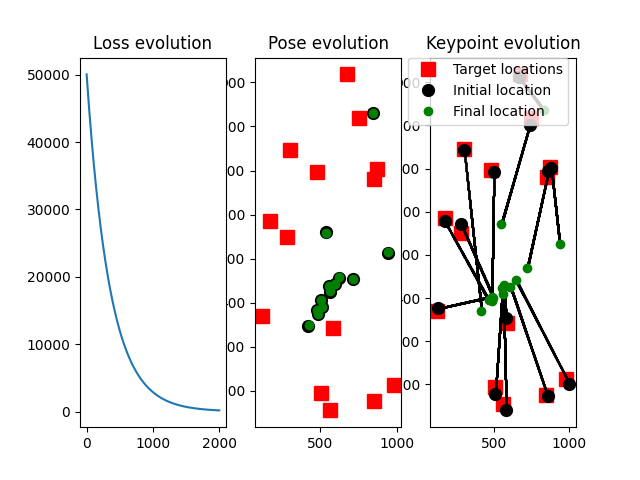
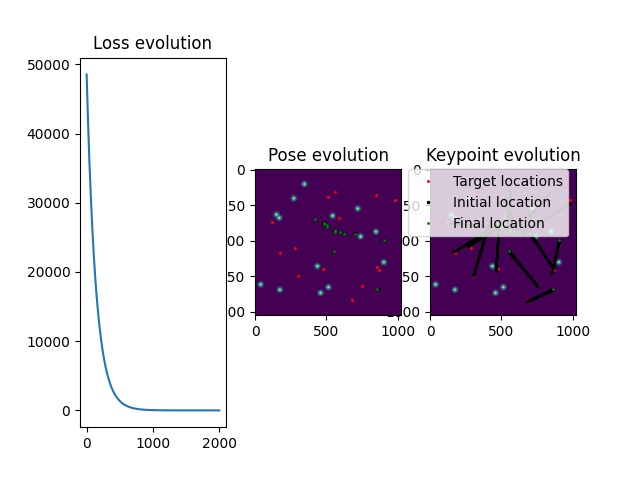
bpnp feature-metric results

diff --git a/demoPoseEst_features.py b/demoPoseEst_features.py
@@ -13,8 +13,7 @@ import cv2
 device = 'cuda'
 
 data = pickle.load(open('demo_data/toyexample_6_data.p', 'rb'))
-img = torch.tensor(cv2.imread('demo_data/toyexample_6.png'),
-    device = device, dtype = torch.float)[None, None, ...]
+img = torch.tensor(cv2.imread('demo_data/toyexample_6.png', cv2.IMREAD_GRAYSCALE), device = device, dtype = torch.float)[None, None, ...]
 
 pts3d_gt = torch.tensor(data['3d_points'], device=device, dtype=torch.float)
 n = pts3d_gt.size(0)
@@ -52,11 +51,11 @@ features_gt = F.grid_sample(img, pts2d_gt[None, ...])
 
 plt.figure()
 ax3 = plt.subplot(1, 3, 3)
-plt.imshow(img[0][0])
+plt.imshow(img[0][0].detach().cpu().numpy())
 plt.plot(pts2d_gt[0,:,0].clone().detach().cpu().numpy(), pts2d_gt[0,:,1].clone().detach().cpu().numpy(),'rs',ms=1, label = 'Target locations')
 plt.title('Keypoint evolution')
 ax2 = plt.subplot(1, 3, 2)
-plt.imshow(img[0][0])
+plt.imshow(img[0][0].detach().cpu().numpy())
 ax2.plot(pts2d_gt[0,:,0].clone().detach().cpu().numpy(), pts2d_gt[0,:,1].clone().detach().cpu().numpy(),'rs',ms=1, label = 'Target locations')
 plt.title('Pose evolution')
 
